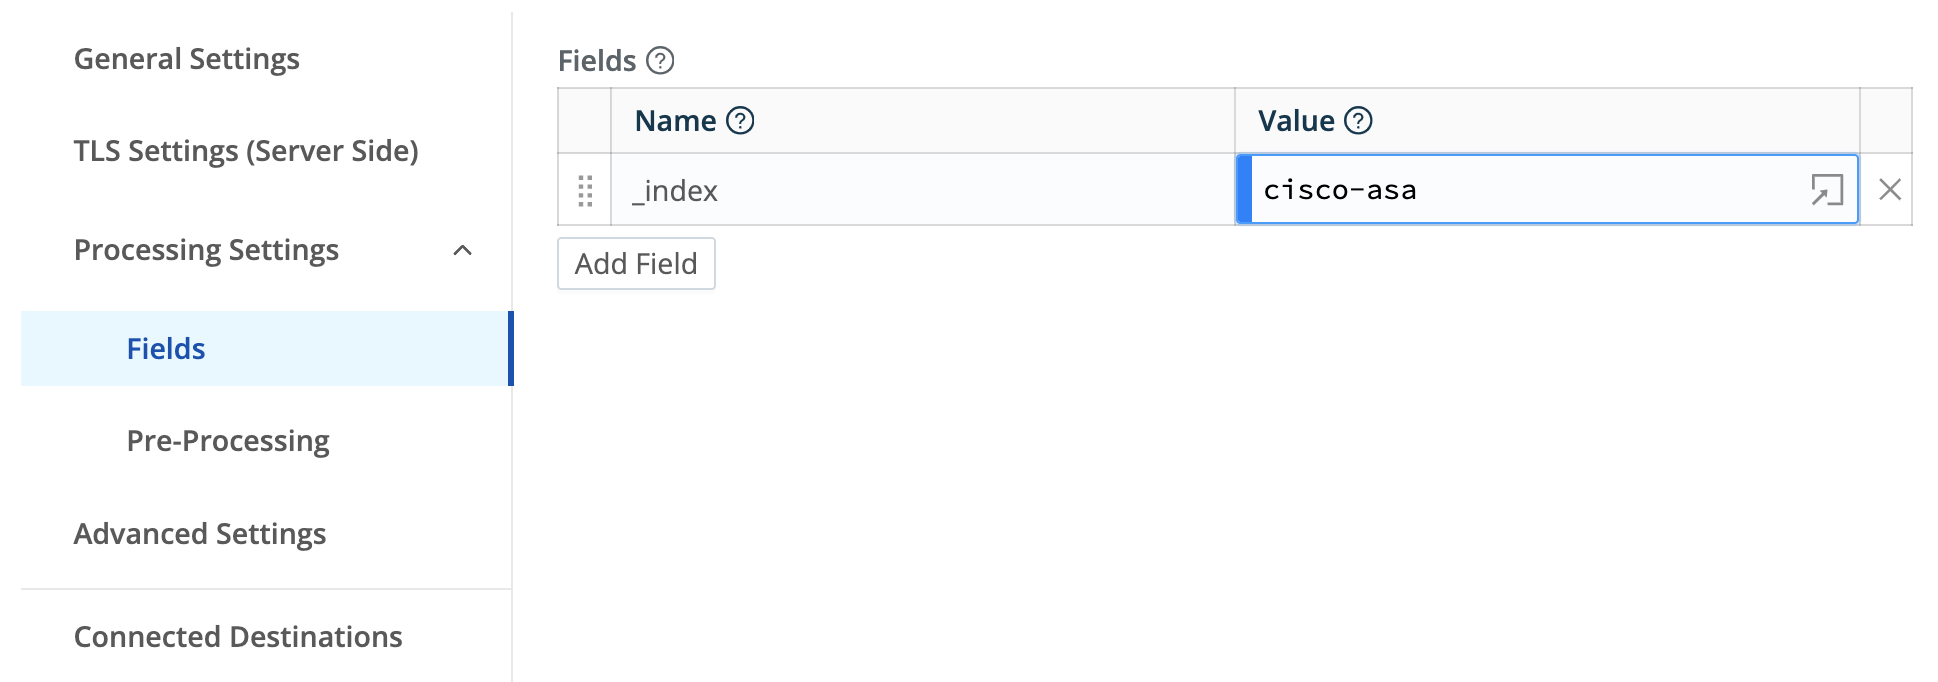
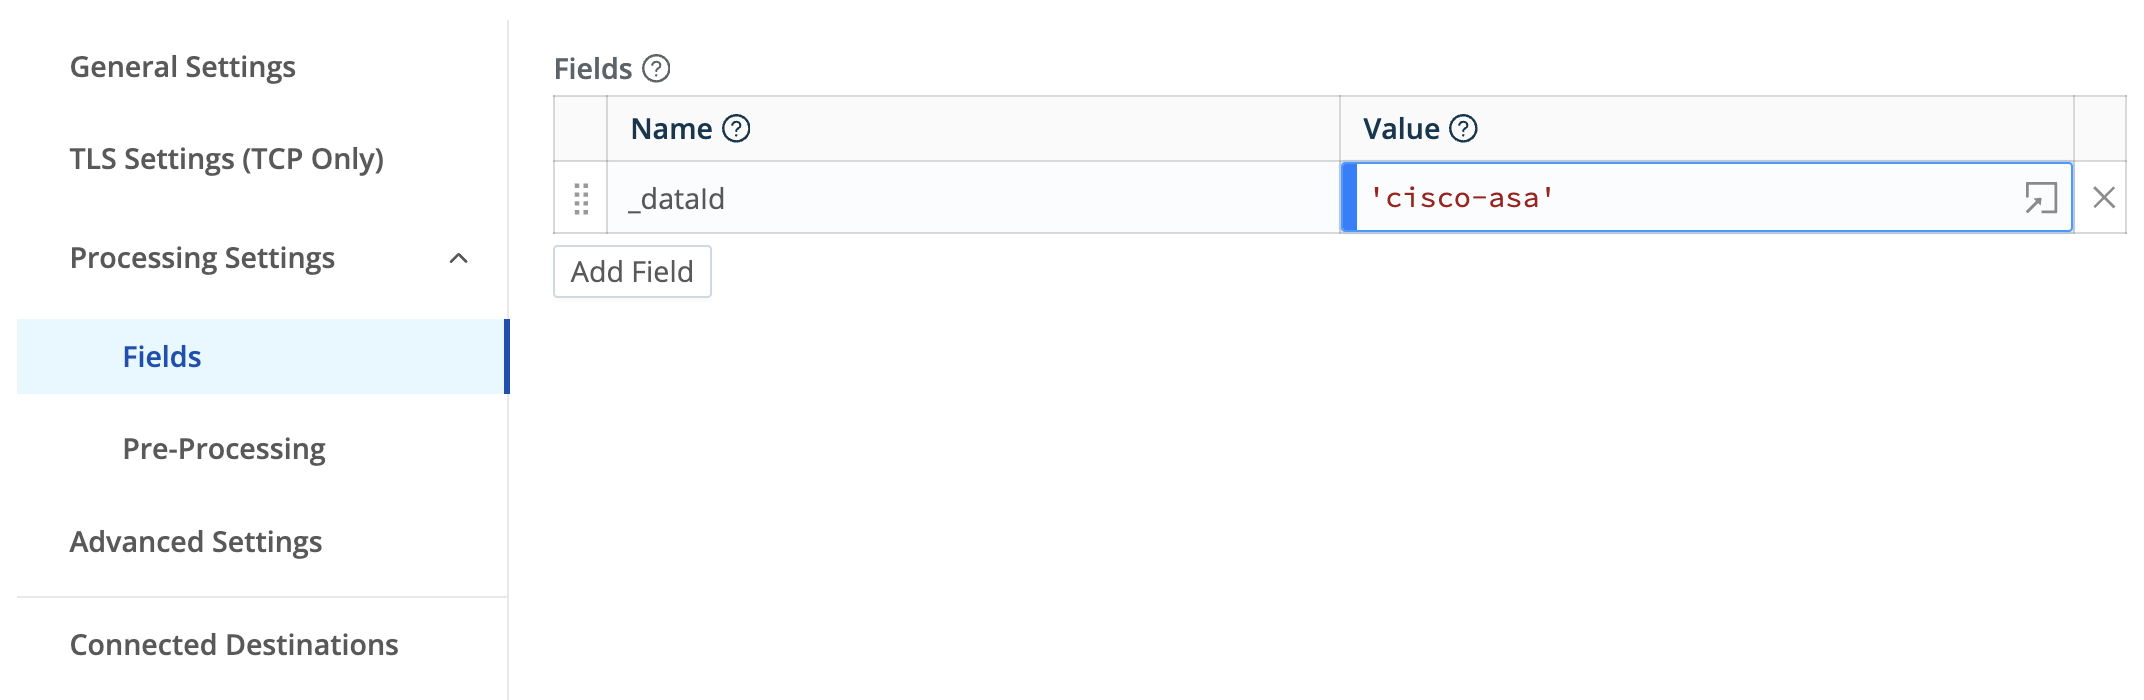
[Cribl] Updating setup guidance for Cribl field (#8746)
* updating guidance from _index to datatype

* tweaking identifier again

* adding the _

* fixing

diff --git a/packages/cribl/docs/README.md b/packages/cribl/docs/README.md
@@ -28,7 +28,7 @@ The Cribl integration offers users a way to ingest logs from either of Cribl's E
 
     2. Add informational field to Cribl Source
 
-        Configure the Cribl Source to specify the source of the data in the `_index` field.
+        Configure the Cribl Source to specify the source of the data in the `_dataId` field.
 
         ![Configure Cribl Source fields](../img/cribl-source-fields.png)
 
@@ -47,7 +47,7 @@ The Cribl integration offers users a way to ingest logs from either of Cribl's E
 
             2. Set the **Namespace** to `default`.
 
-            3. Fill in the conditional to specify the Cribl `_index` source field. 
+            3. Fill in the conditional to specify the Cribl `_dataId` source field. 
 
             ![Reroute processor](../img/custom-pipeline-reroute-processor.png)
 
